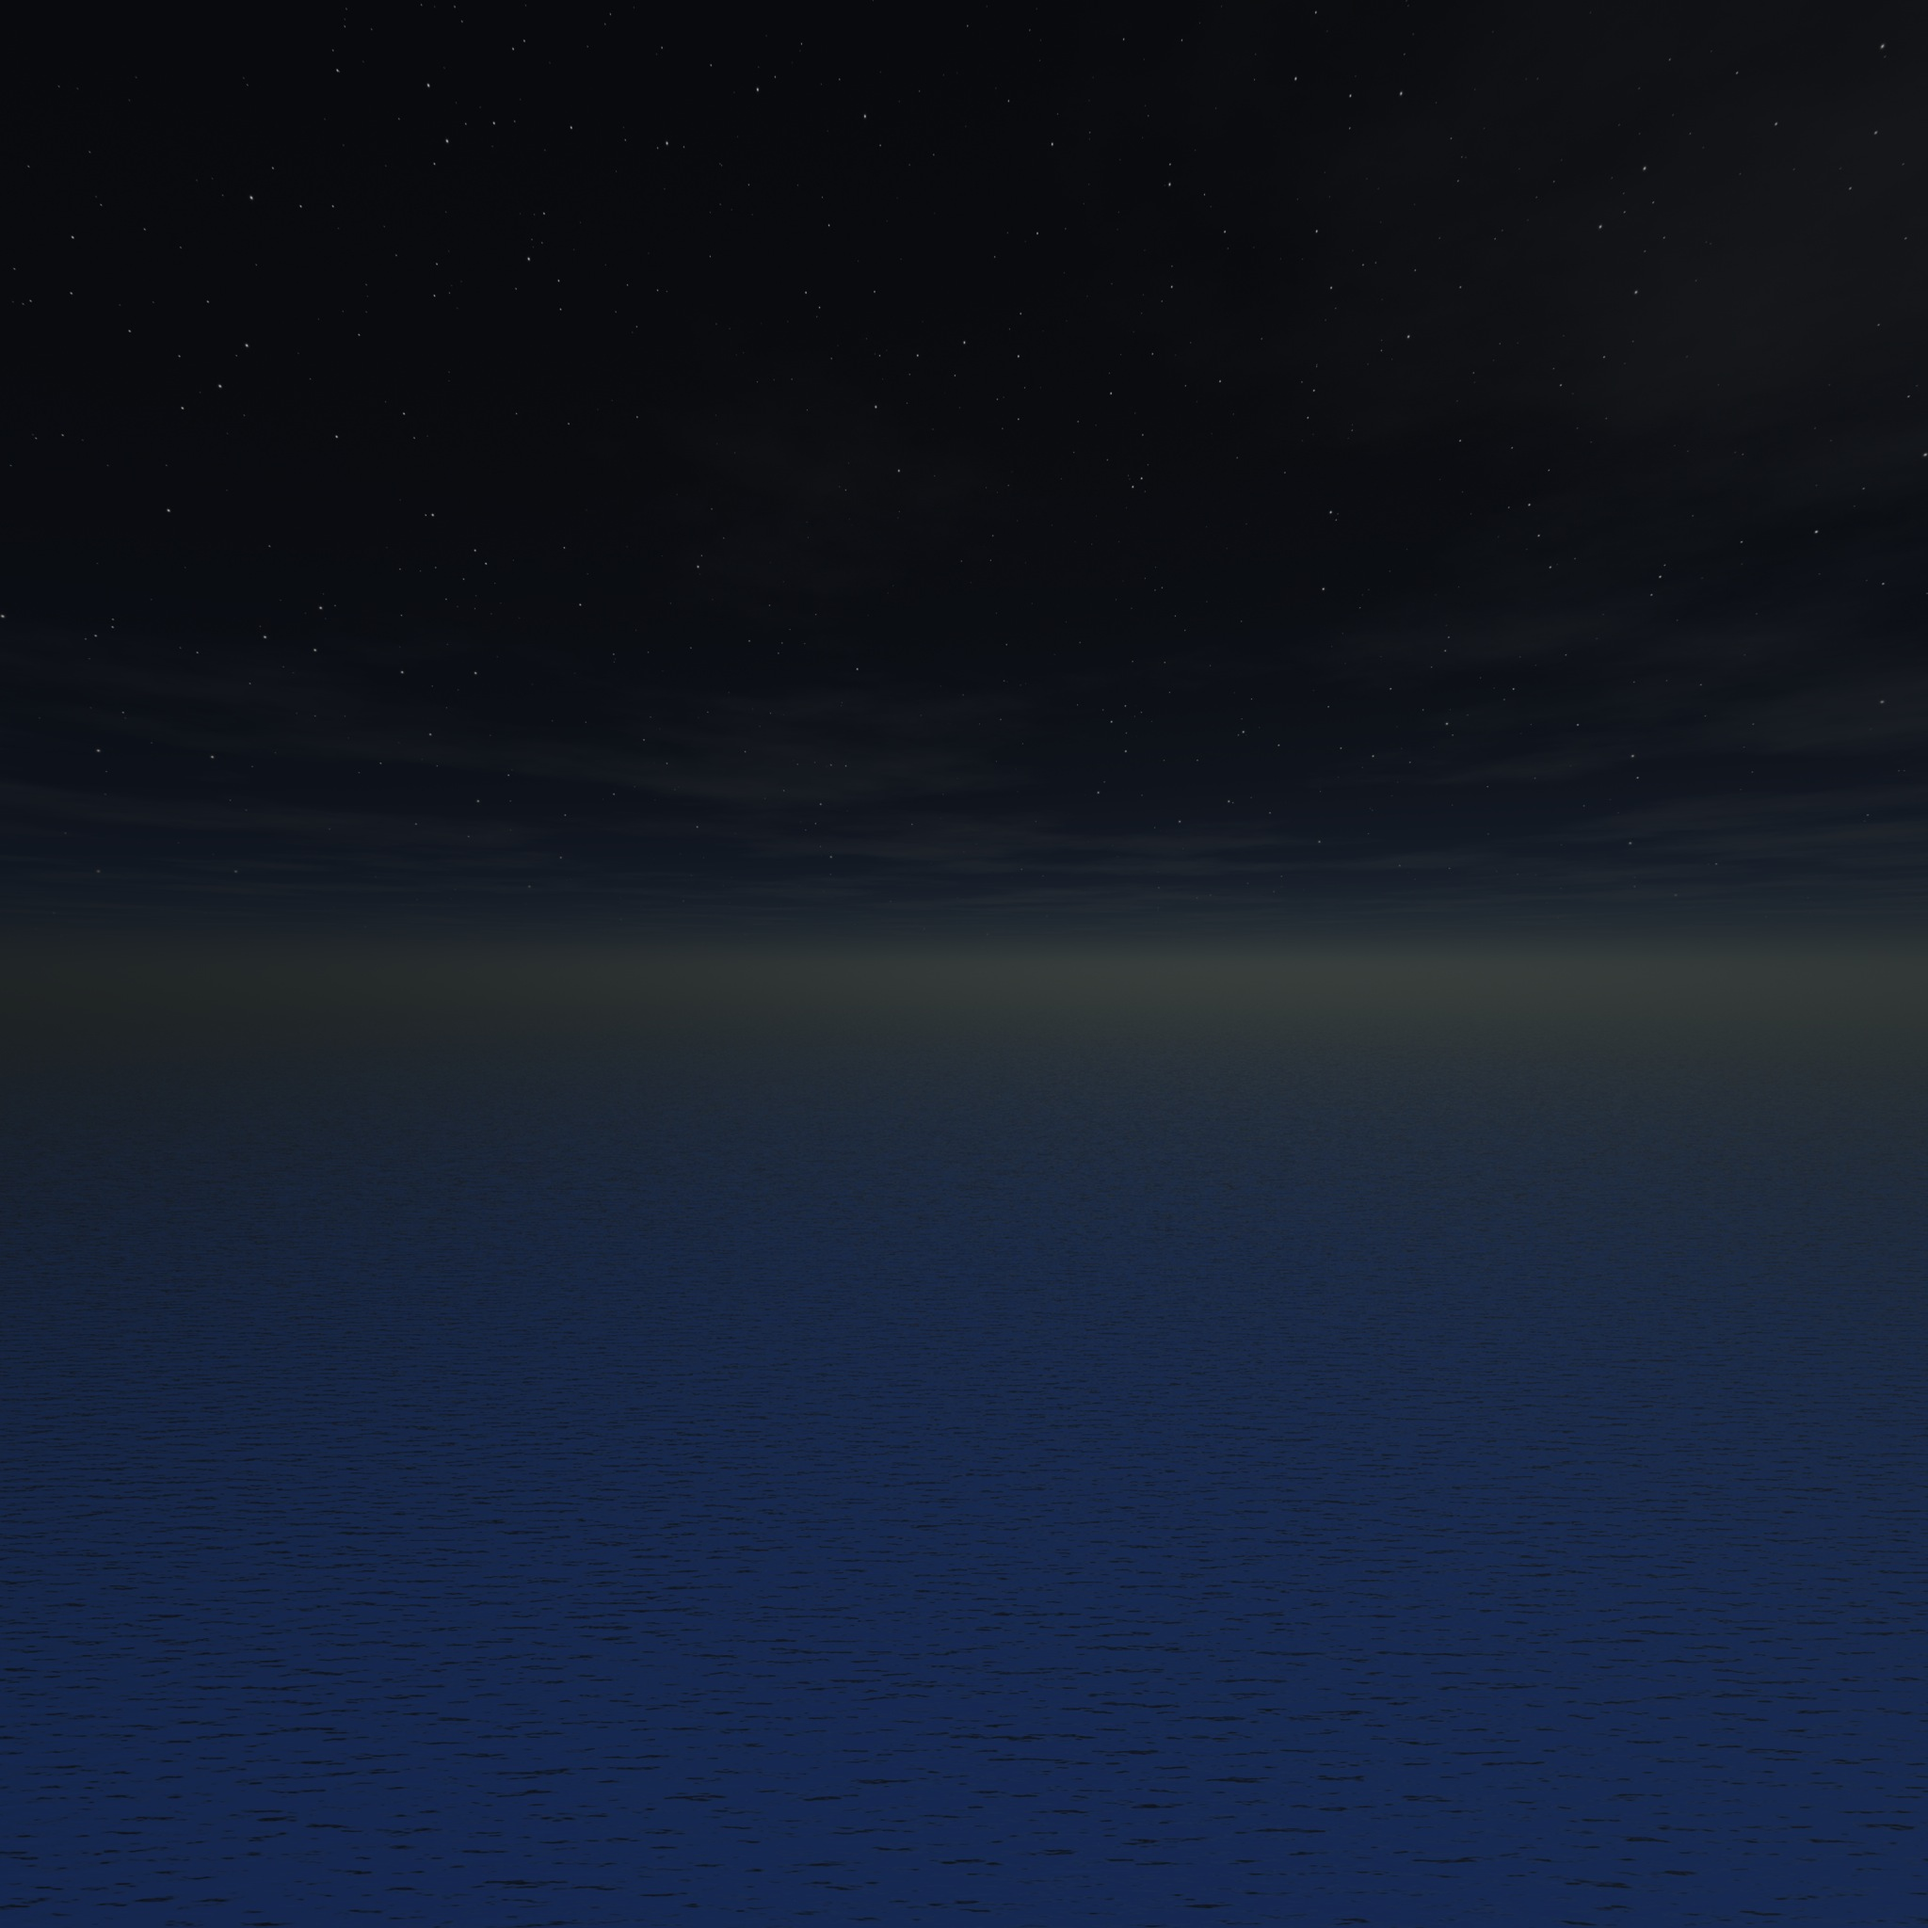
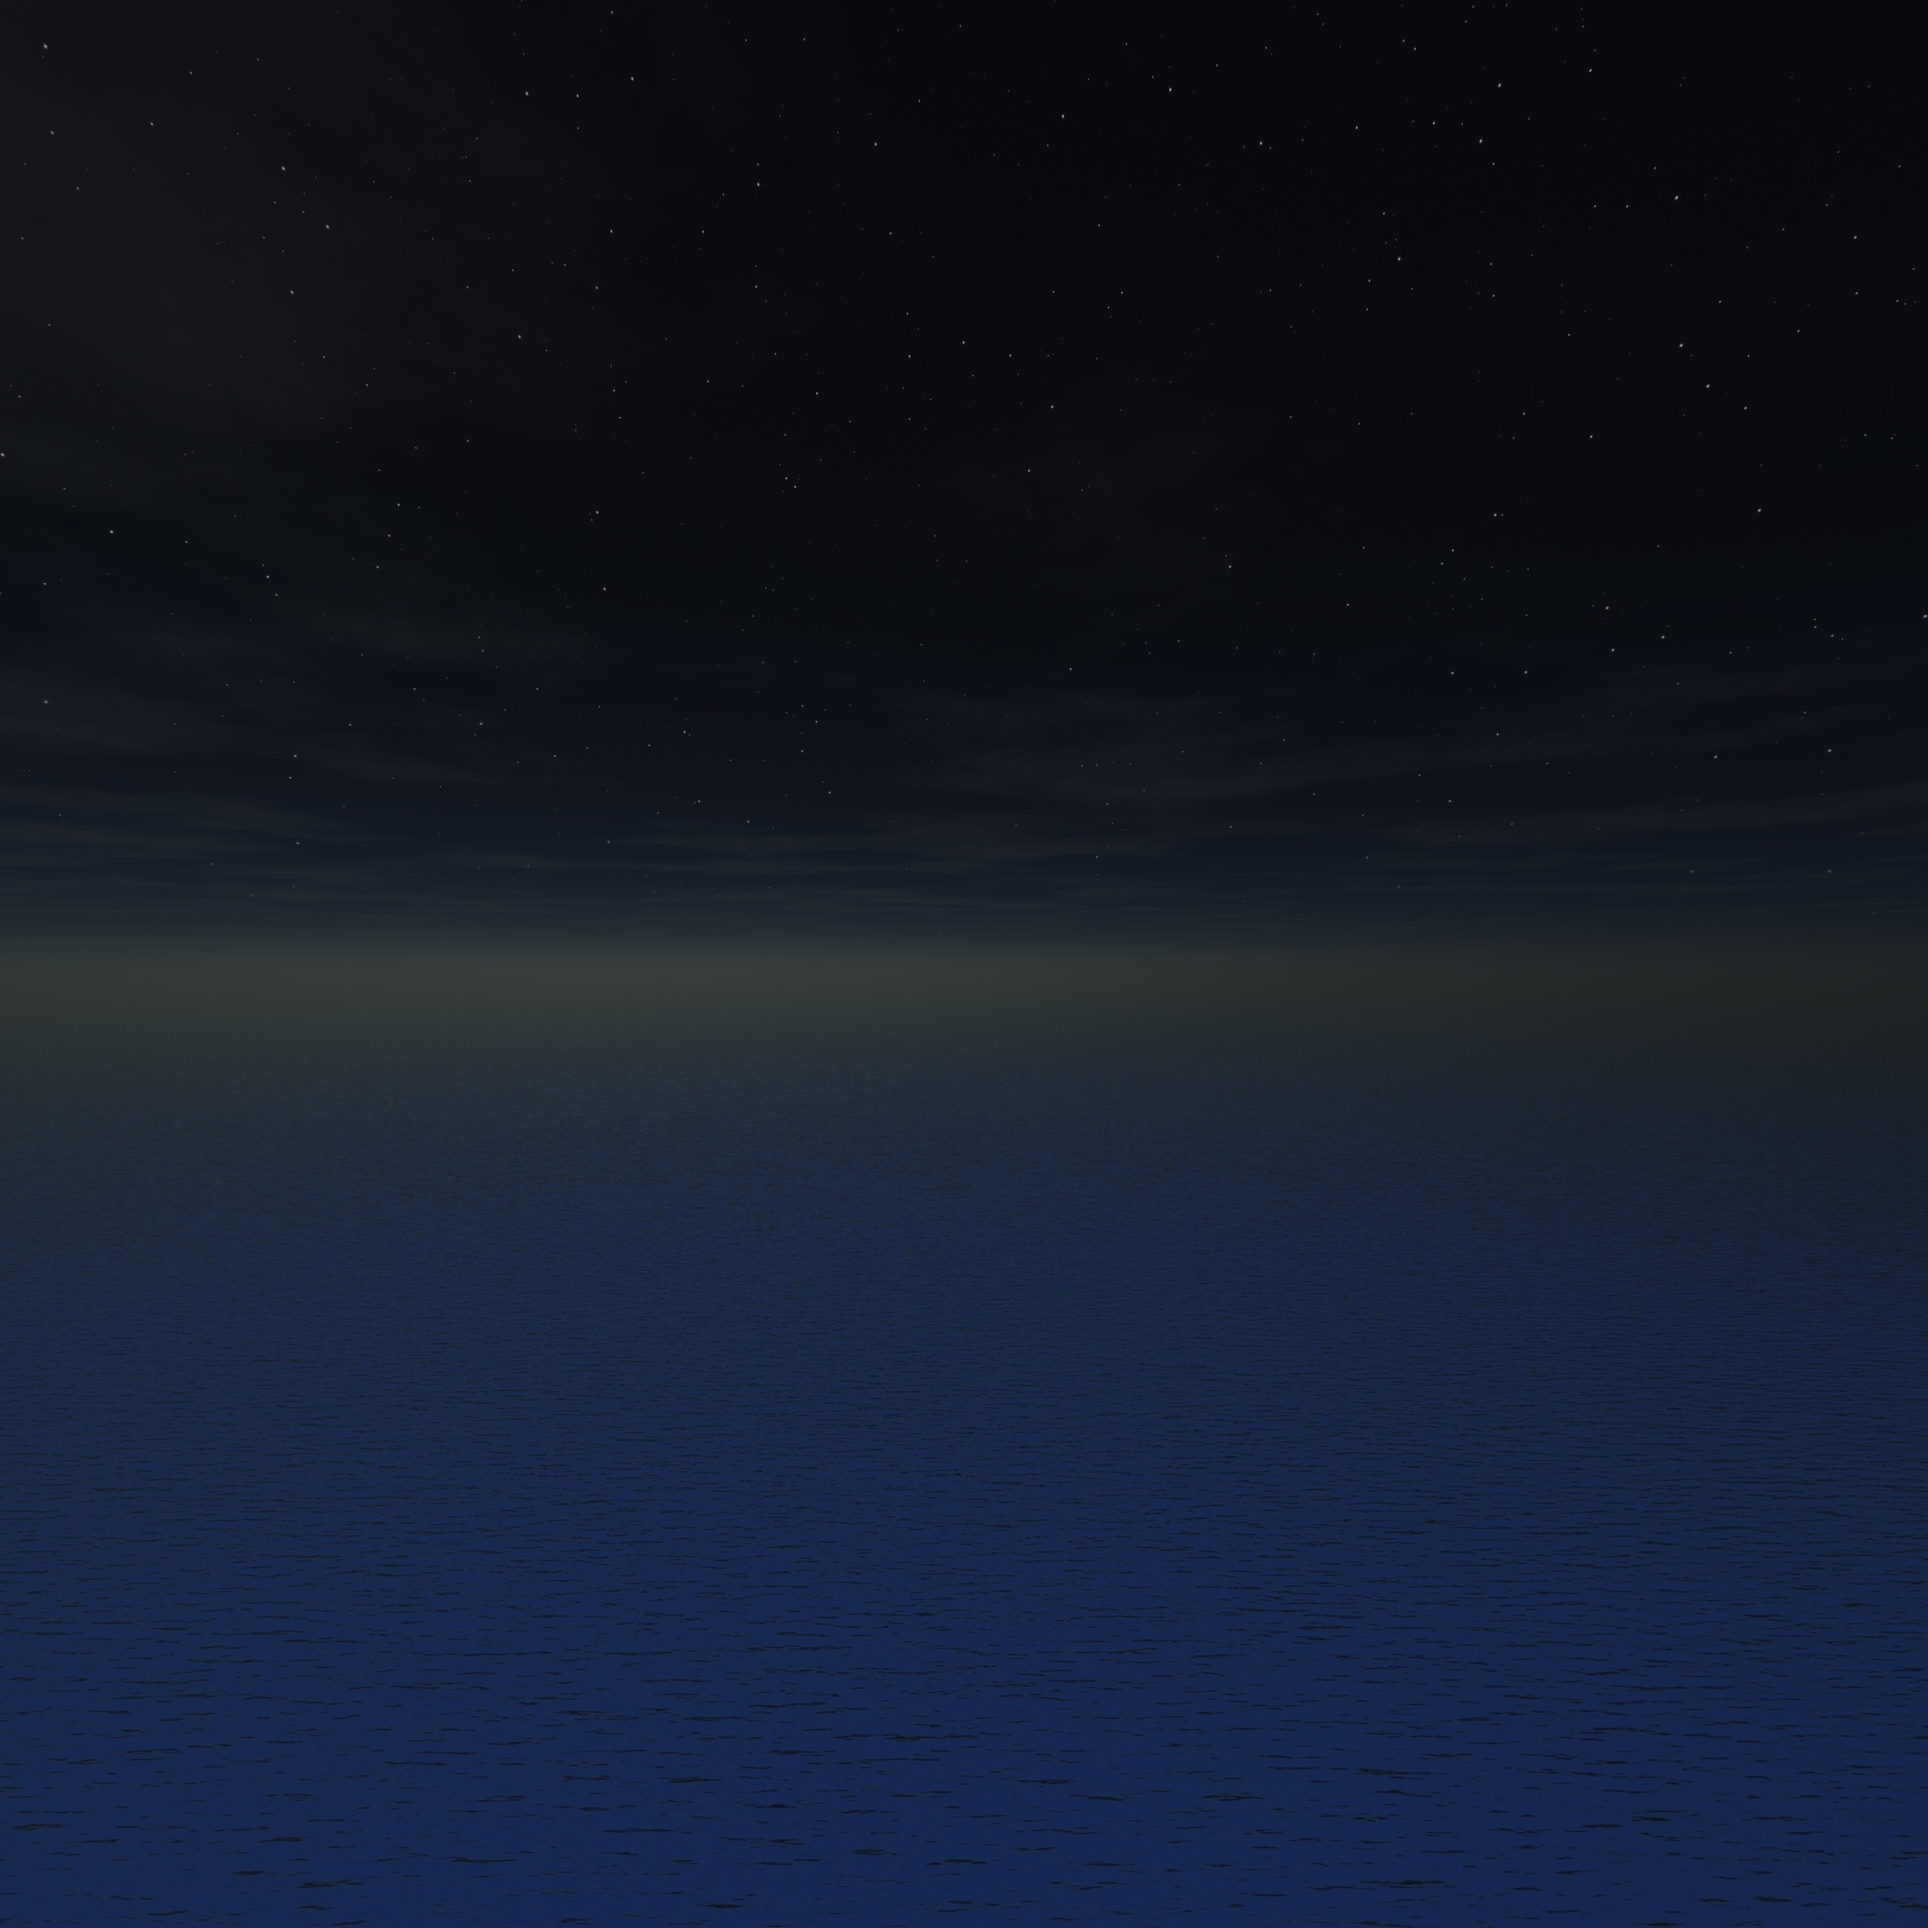
Visual improvements - Skybox, bloom, vegetation emissive component

diff --git a/ProgramFlow.js b/ProgramFlow.js
@@ -95,6 +95,7 @@
                     a_Color: gl.getAttribLocation(this.proceduralShader, "a_Color"),
 
                     u_NoiseParameter: gl.getUniformLocation(this.proceduralShader, "u_NoiseParameter"),
+                    u_IsEmissive: gl.getUniformLocation(this.proceduralShader, "u_IsEmissive"),
                     u_BrightnessFactor: gl.getUniformLocation(this.proceduralShader, "u_BrightnessFactor"),
 
                     u_ModelViewMatrix: gl.getUniformLocation(this.proceduralShader, "u_ModelViewMatrix"),
@@ -356,9 +357,11 @@
                 vegetation._generateRenderMesh(gl, renderResources.currentTerrain);
             });
             console.log('generating grass');
-            var i;
-            for (i = 0; i < 10; i++)
-                Controllers.forest.addGrass(gl, renderResources.currentTerrain, 5500, renderResources.grassBillboardImage);
+            var i, remainingMeshes = ProcForest.Settings.numGrassMeshes, maxMeshesPerIteration = 5500;
+            while (remainingMeshes > 0) {
+                Controllers.forest.addGrass(gl, renderResources.currentTerrain, remainingMeshes % maxMeshesPerIteration, renderResources.grassBillboardImage);
+                remainingMeshes -= maxMeshesPerIteration;
+            }
         },
 
         UpdateUI: function updateUI(resources) {
@@ -527,7 +530,7 @@
 
         },
 
-        RenderForest: function renderForest(gl, resources, brightnessFactor_) {
+        RenderForest: function renderForest(gl, resources, isEmissive, brightnessFactor_) {
             if (!ProcForest.Settings.drawForest)
                 return;
 
@@ -548,6 +551,7 @@
 
             gl.uniform1f(shaderParams.u_NoiseParameter, ProcForest.Settings.textureGenSeed);
             gl.uniform1f(shaderParams.u_BrightnessFactor, brightnessFactor_);
+            gl.uniform1i(shaderParams.u_IsEmissive, isEmissive || false);
             ProcForest.Settings.textureGenSeed += Controllers.time.getDelta() * ProcForest.Settings.textureVelocity;
 
             glHelper.enableAttribArrays(gl, shaderParams.attribArrays);
@@ -634,15 +638,15 @@
             this.RenderTerrain(gl, resources);
             //this.RenderSpecialSquare(gl, resources);
             this.RenderLakes(gl, resources);
-            this.RenderForest(gl, resources, forestIntensity);
+            this.RenderForest(gl, resources, false, forestIntensity);
             this.RenderGrass(gl, resources);
             this.RenderParticles(gl, resources);
             this.RenderClouds(gl, resources);
         },
 
         RenderEmissive: function renderEmissiveElements(gl, resources, forestIntensity) {
-            //this.RenderSkybox(gl, resources);
-            this.RenderForest(gl, resources, forestIntensity);
+            this.RenderForest(gl, resources, true, forestIntensity);
+            this.RenderSkybox(gl, resources);
             this.RenderParticles(gl, resources);
             //this.RenderSpecialSquare(gl, resources);
         }

diff --git a/index.html b/index.html
@@ -238,12 +238,19 @@
 //                skybox_Back: 'resources/skybox/TropicalSunnyDayBack2048.jpg',
 //                skybox_Bottom: 'resources/skybox/TropicalSunnyDayDown2048.jpg'
 
-                skybox_Front: 'resources/skybox/DarkStormyFront2048.jpg',
-                skybox_Left: 'resources/skybox/DarkStormyLeft2048.jpg',
-                skybox_Right: 'resources/skybox/DarkStormyRight2048.jpg',
-                skybox_Top: 'resources/skybox/DarkStormyUp2048.jpg',
-                skybox_Back: 'resources/skybox/DarkStormyBack2048.jpg',
-                skybox_Bottom: 'resources/skybox/DarkStormyDown2048.jpg',
+//                skybox_Front: 'resources/skybox/DarkStormyFront2048.jpg',
+//                skybox_Left: 'resources/skybox/DarkStormyLeft2048.jpg',
+//                skybox_Right: 'resources/skybox/DarkStormyRight2048.jpg',
+//                skybox_Top: 'resources/skybox/DarkStormyUp2048.jpg',
+//                skybox_Back: 'resources/skybox/DarkStormyBack2048.jpg',
+//                skybox_Bottom: 'resources/skybox/DarkStormyDown2048.jpg',
+
+                skybox_Front: 'resources/skybox/FullMoonFront2048.jpg',
+                skybox_Left: 'resources/skybox/FullMoonLeft2048.jpg',
+                skybox_Right: 'resources/skybox/FullMoonRight2048.jpg',
+                skybox_Top: 'resources/skybox/FullMoonUp2048.jpg',
+                skybox_Back: 'resources/skybox/FullMoonBack2048.jpg',
+                skybox_Bottom: 'resources/skybox/FullMoonDown2048.jpg',
 
 
 

diff --git a/Settings.js b/Settings.js
@@ -19,13 +19,15 @@
         drawParticles: true,
 
         textureGenSeed: 0.125,
-        textureVelocity: 0.1,
+        textureVelocity: 0.7,
 
         terrainSize: 100,
 
         frameSkip: 1,
         backgroundColor: { r: 0.0, g: 0.0, b: 0.0, a: 0 },
         numForestSimulationTicks: 10,
+
+        numGrassMeshes: 200000,
 
         Forest: {
             maxSeedsDistance: 20
